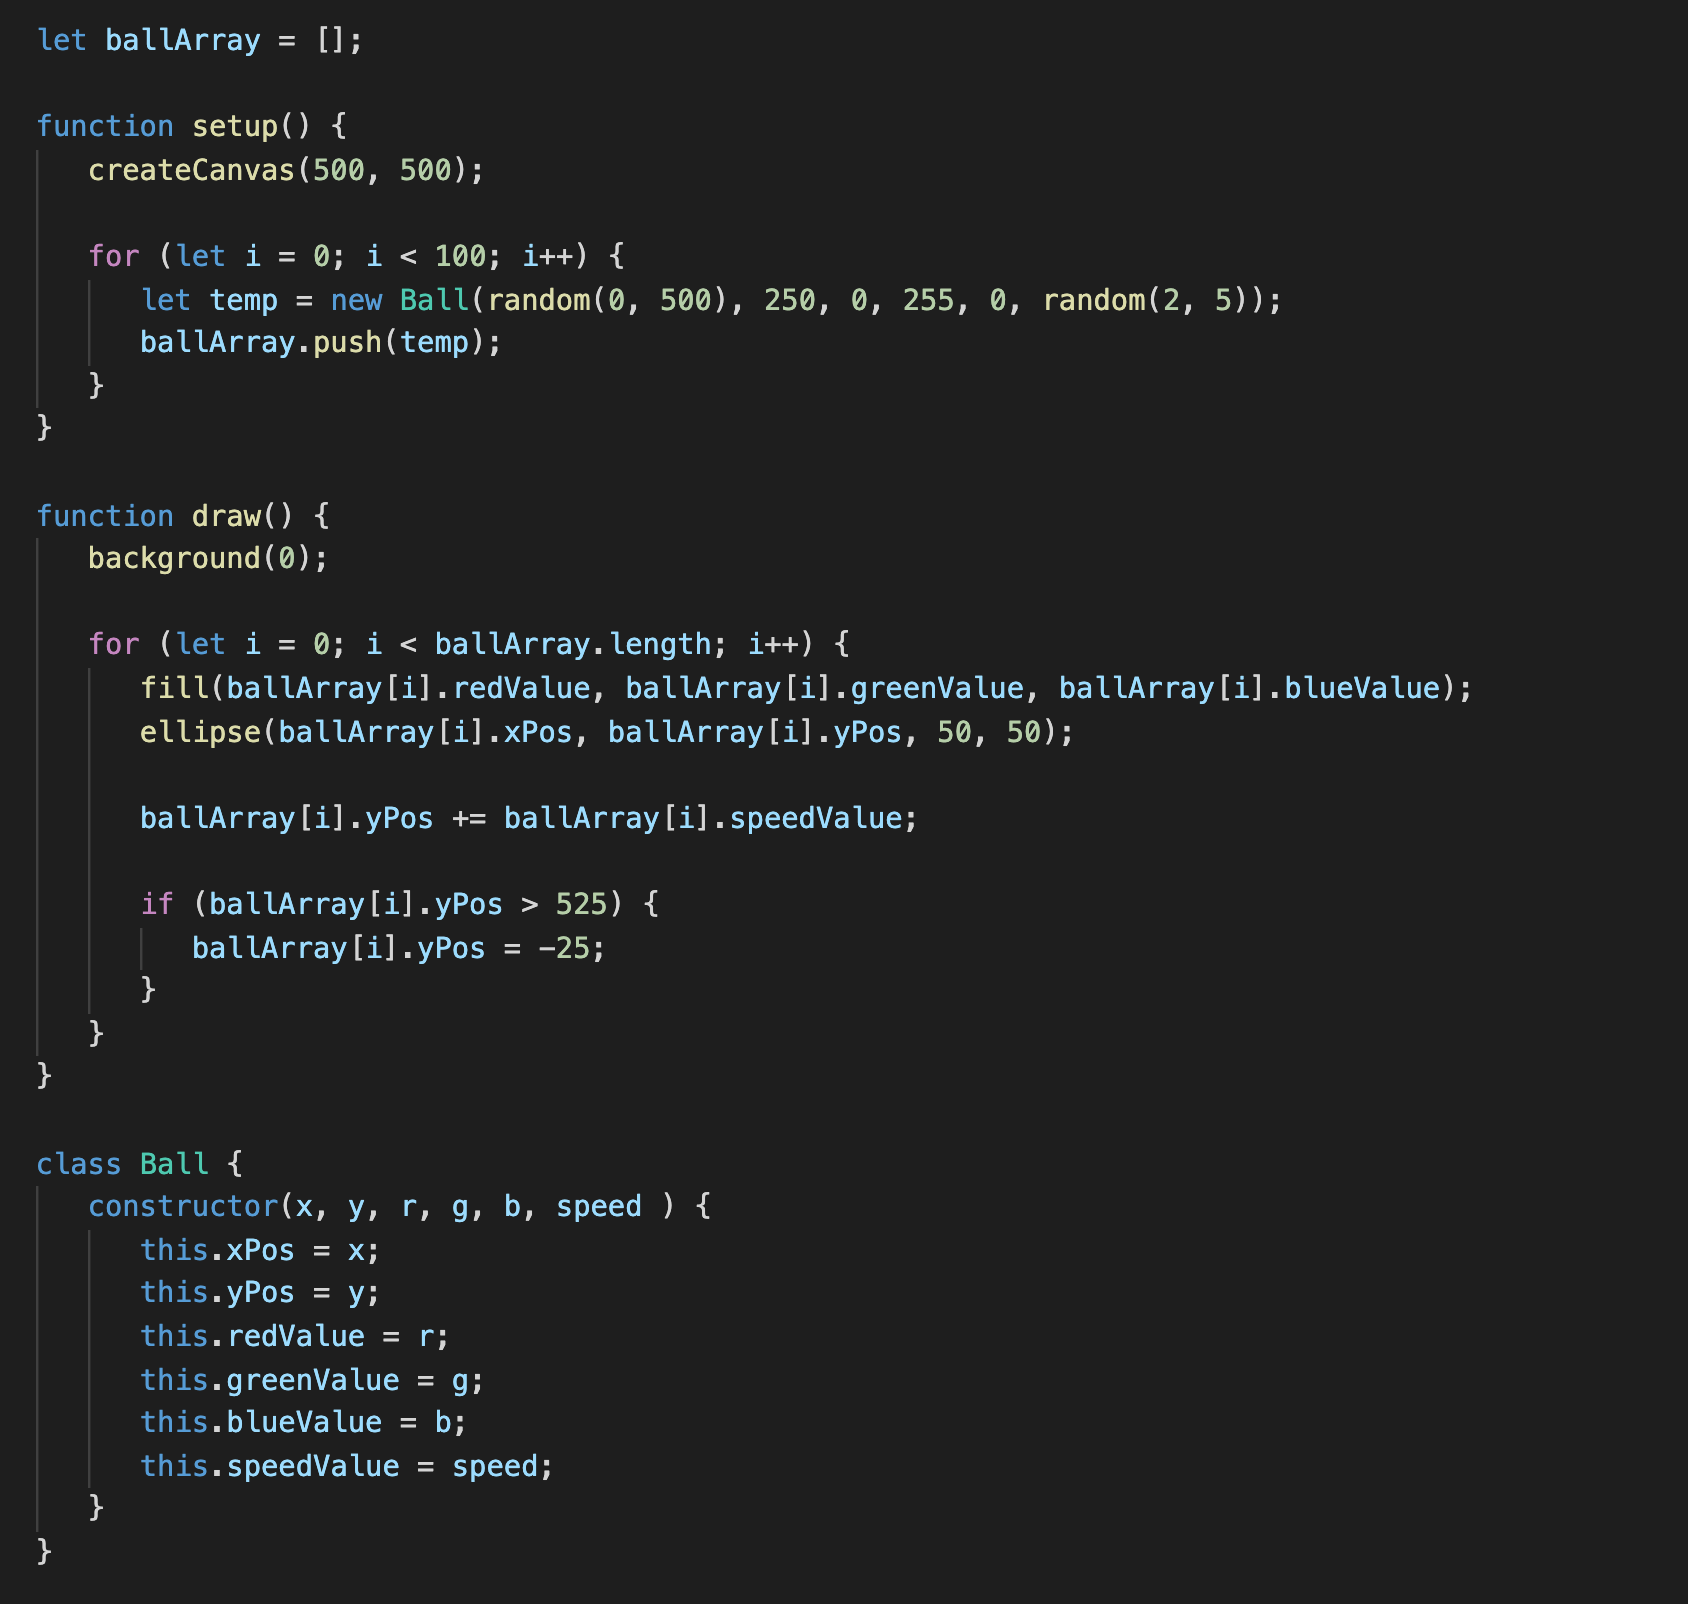
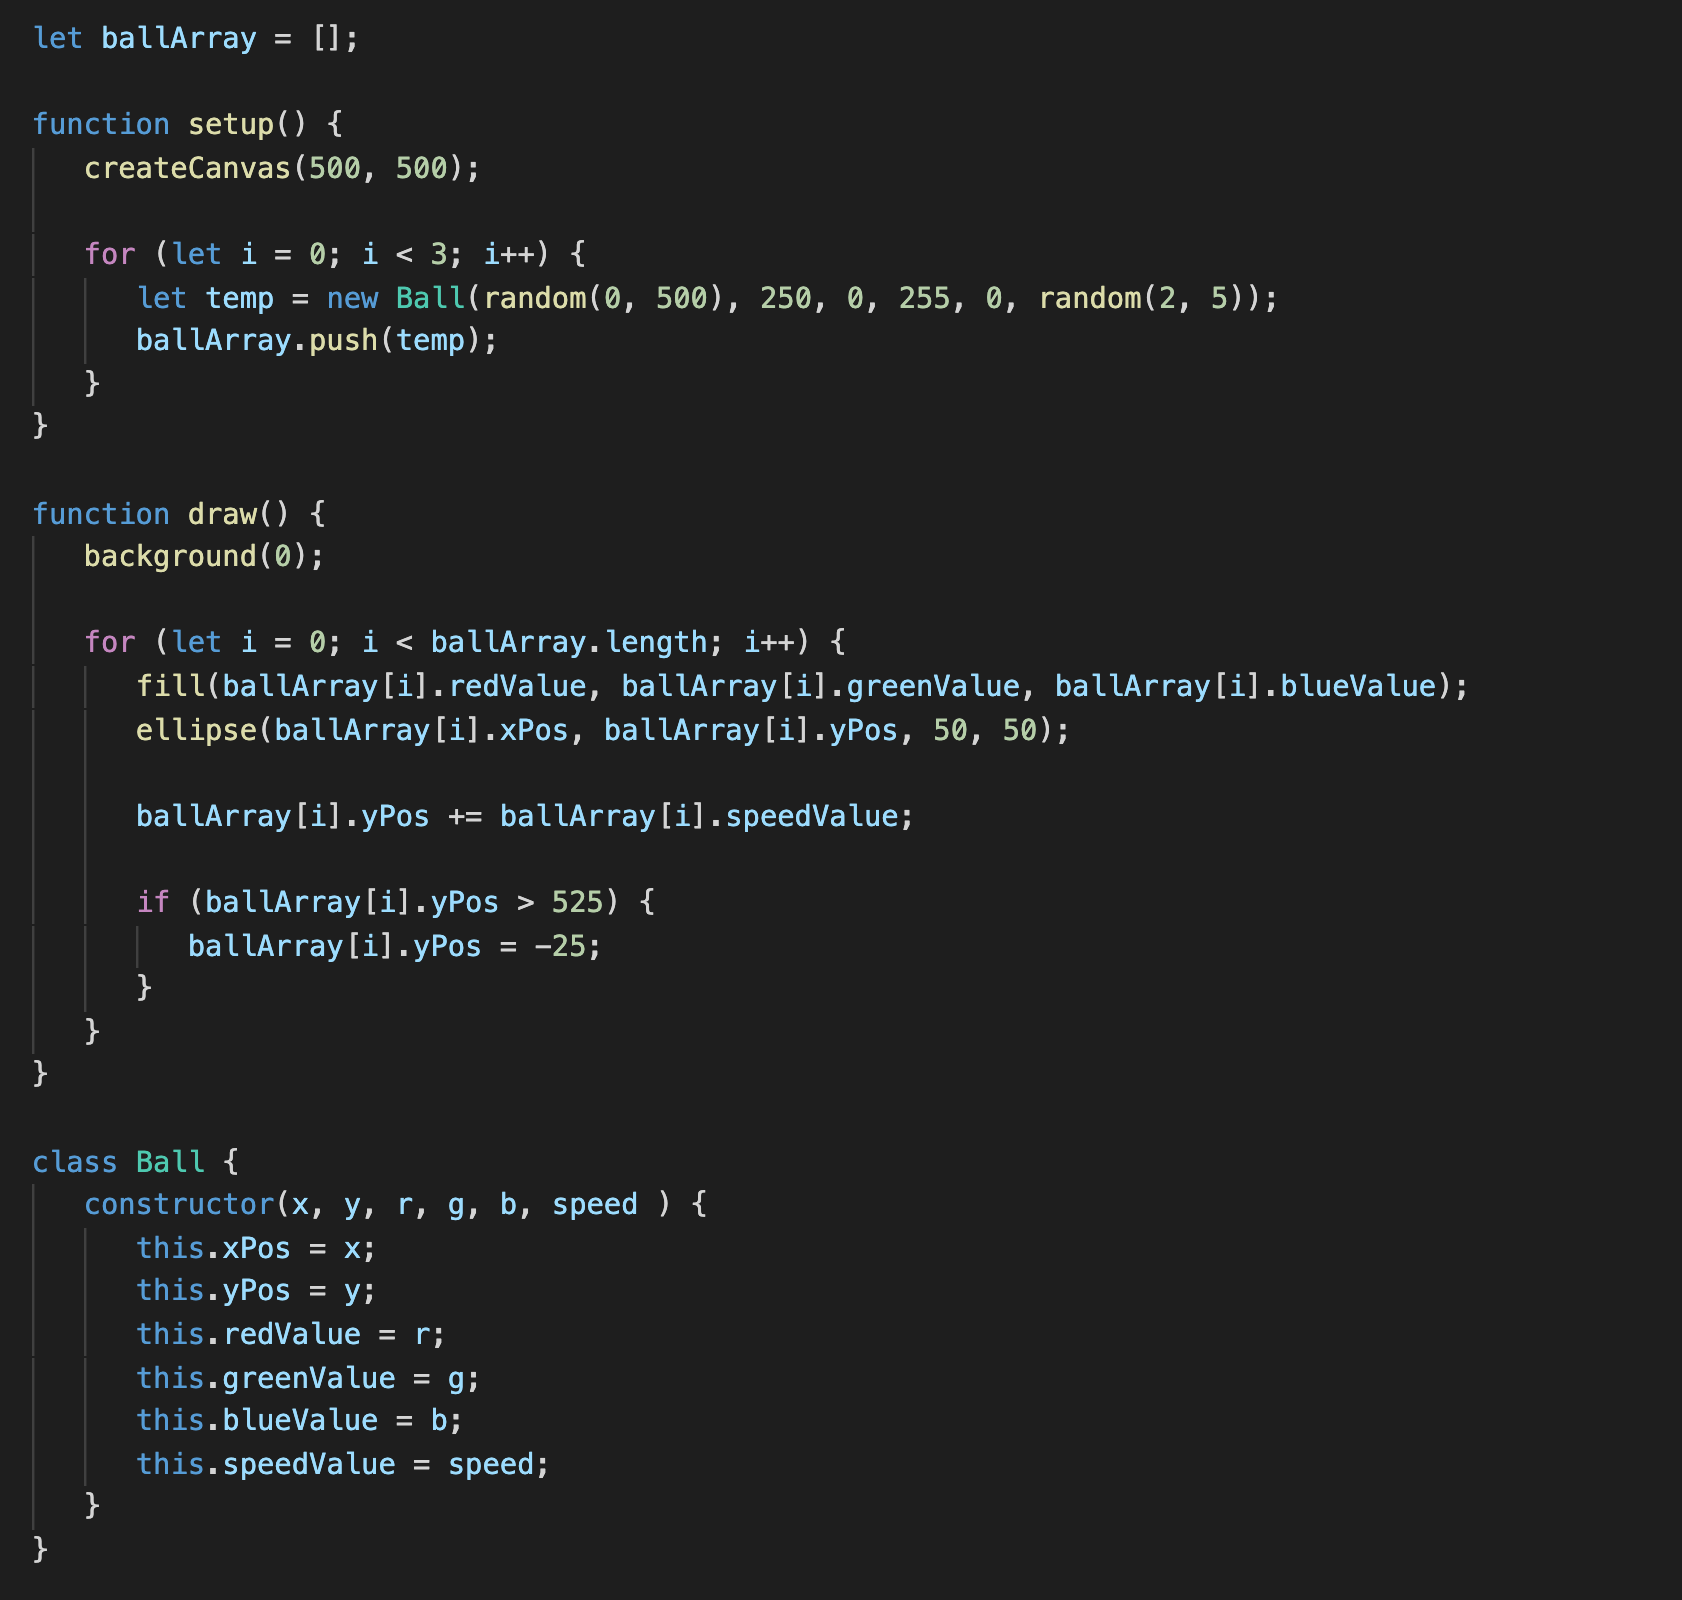
first commit

diff --git a/sketch.js b/sketch.js
@@ -4,7 +4,7 @@ let ballArray = [];
 function setup() {
    createCanvas(500, 500);
  
-   for (let i = 0; i < 100; i++) {
+   for (let i = 0; i < 3; i++) {
       let temp = new Ball(random(0, 500), 250, 0, 255, 0, random(2, 5));
       ballArray.push(temp);
    }
